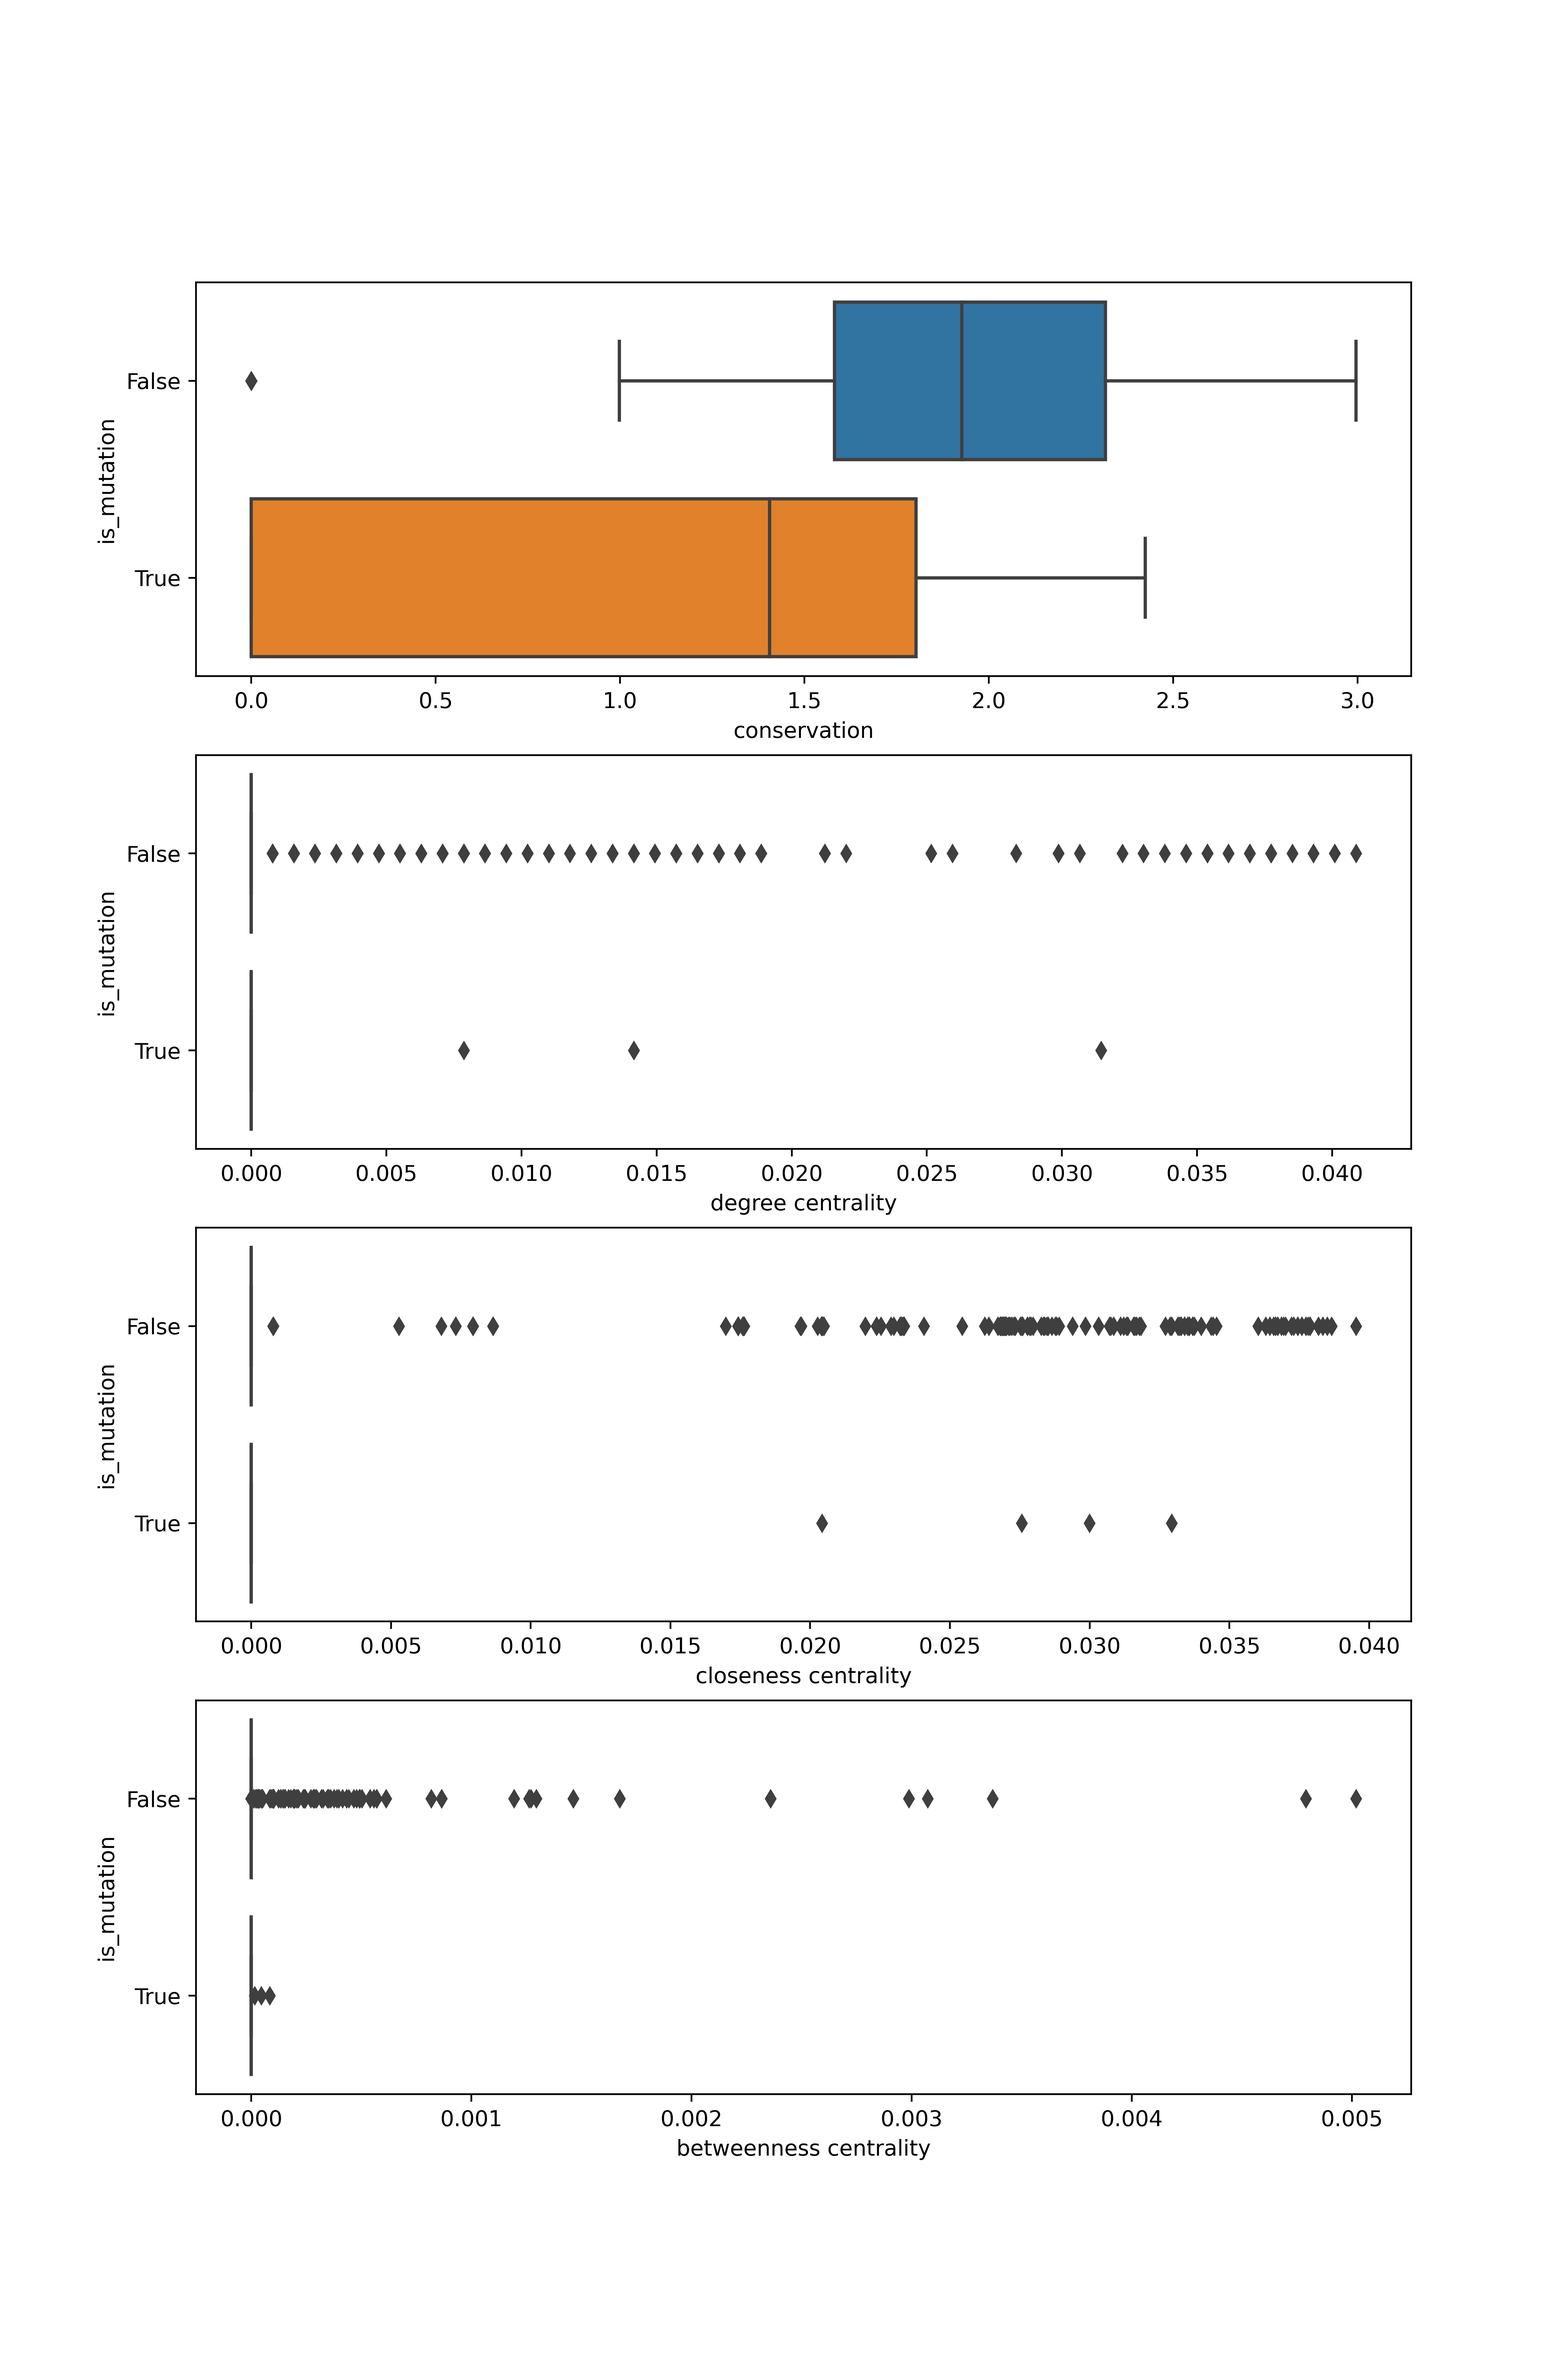
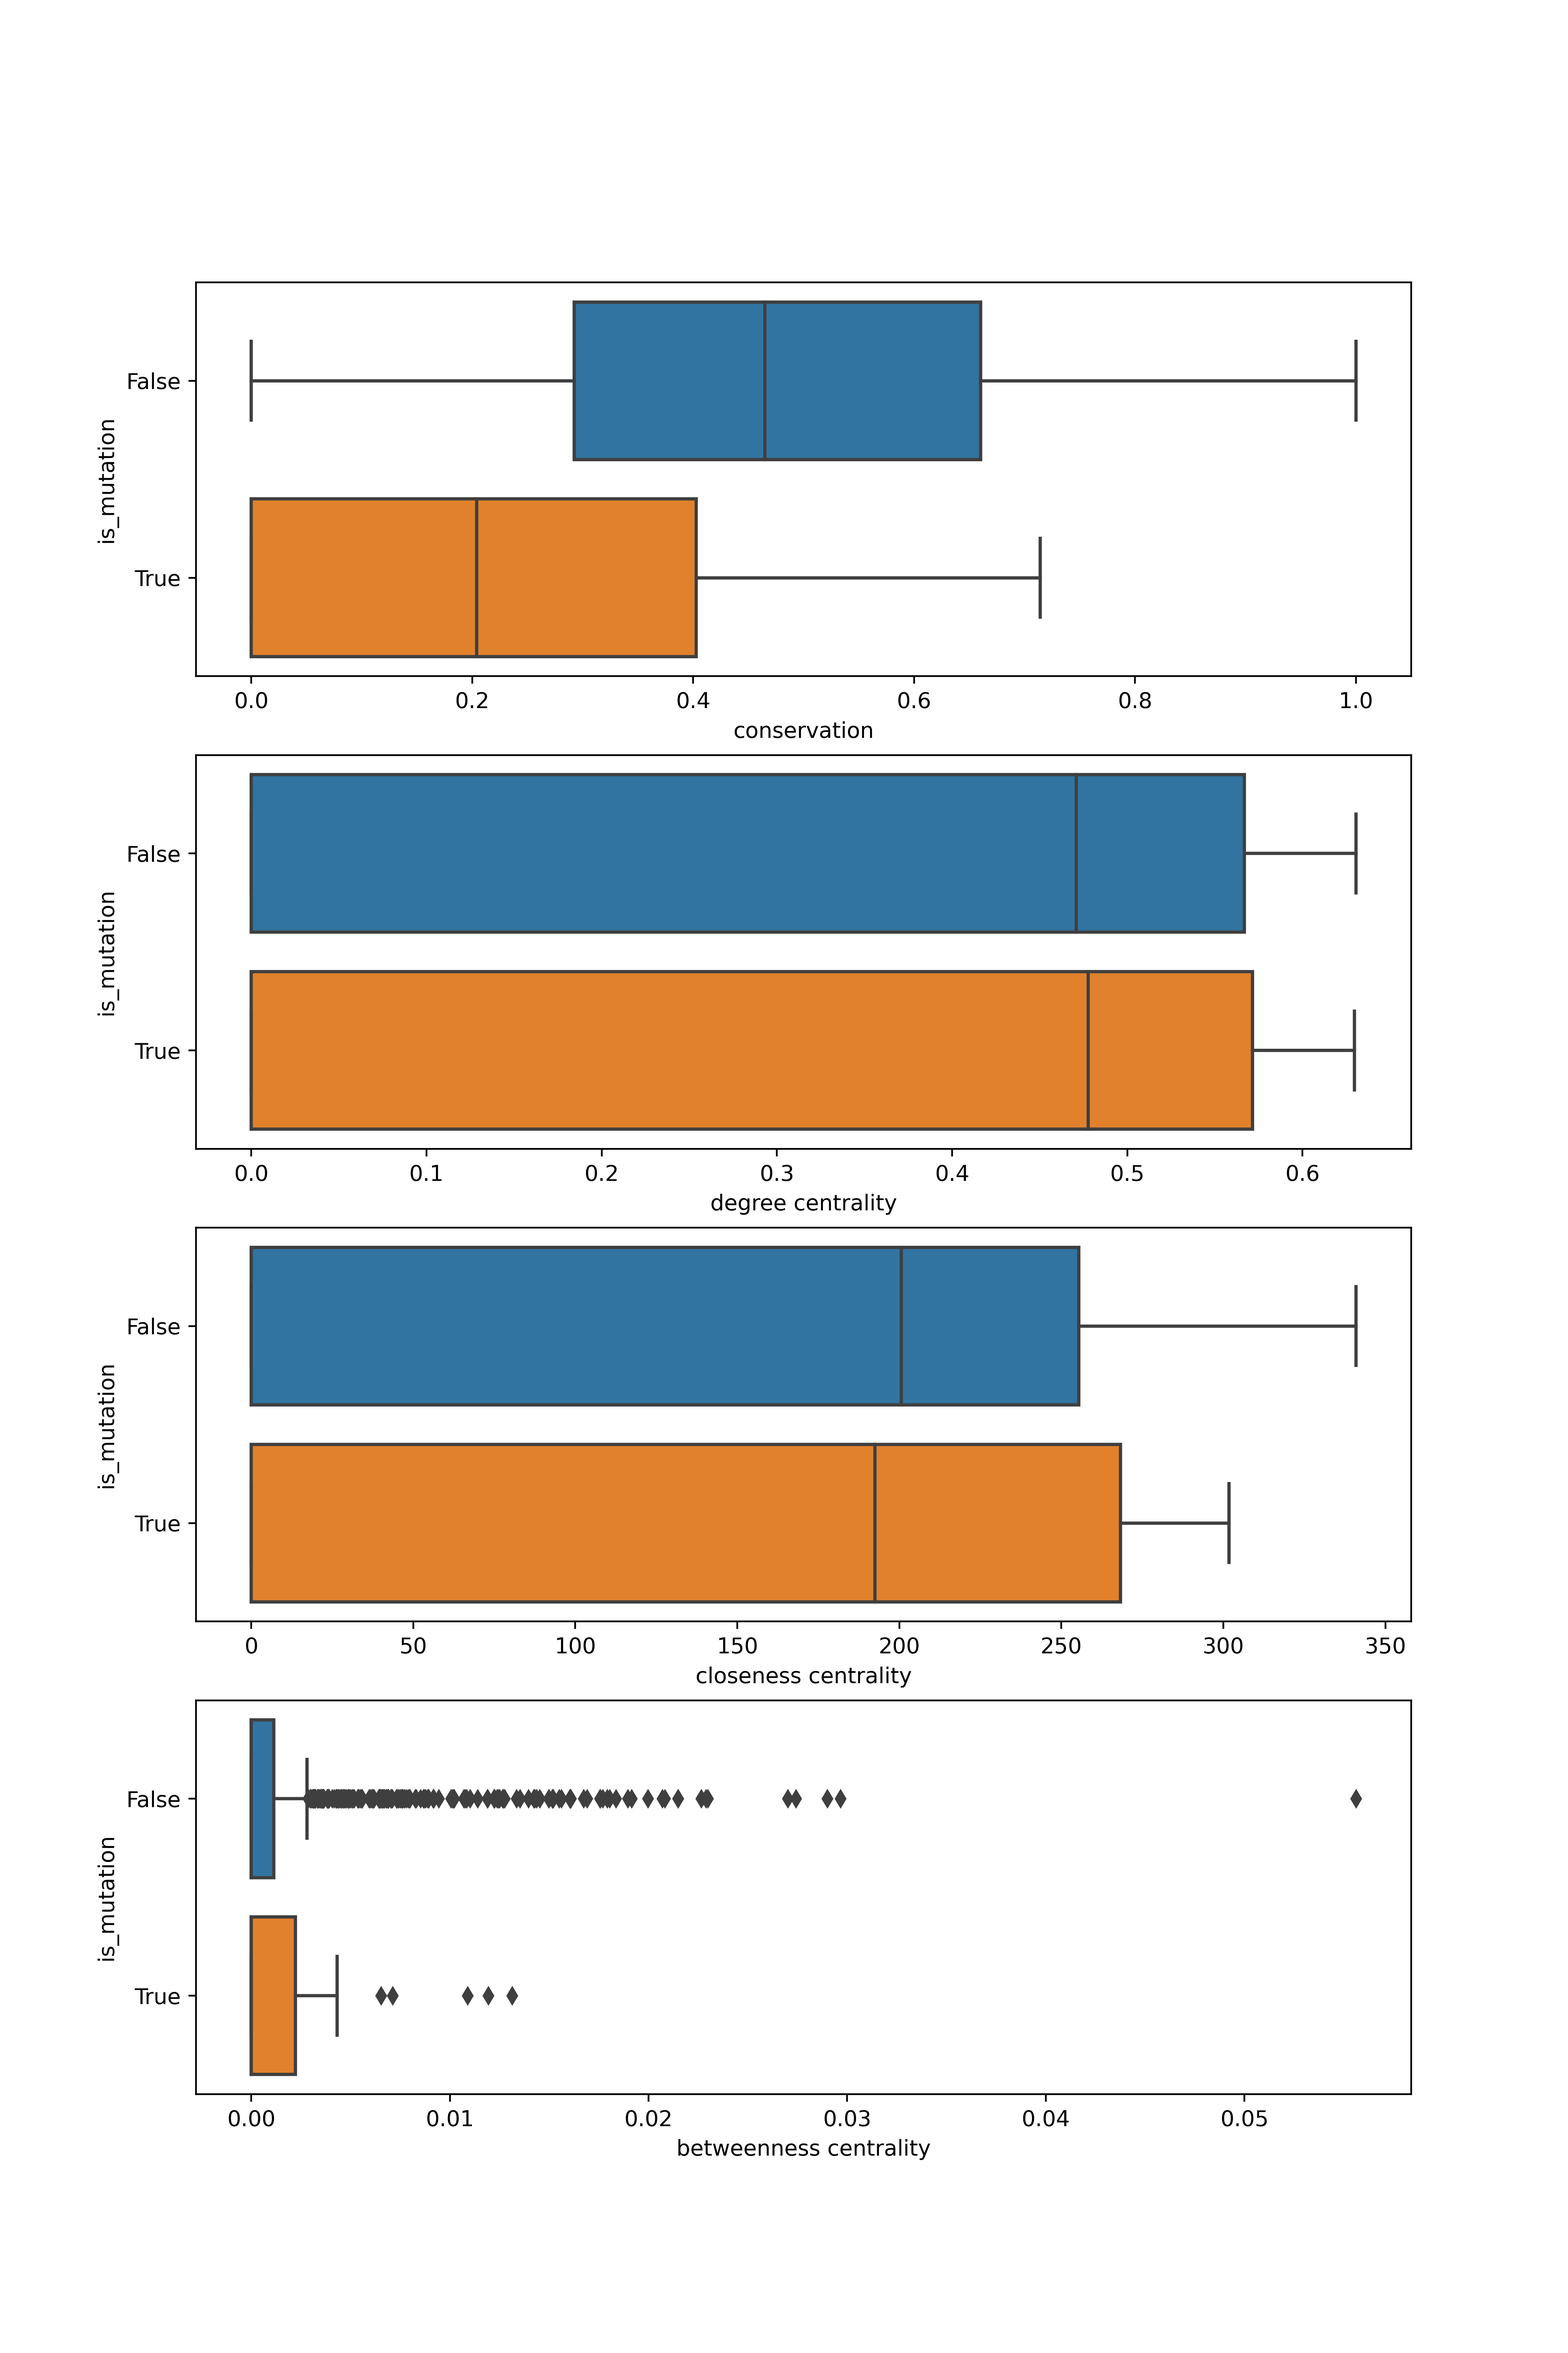
加权图

diff --git a/v2/output_procon_analysis.py b/v2/output_procon_analysis.py
@@ -12,7 +12,9 @@ import os
 from scipy.special import comb
 from itertools import combinations
 from collections import defaultdict
-
+from brokenaxes import brokenaxes
+from matplotlib.gridspec import GridSpec
+from sklearn import preprocessing
 # 日志
 import logging
 import logconfig
@@ -50,19 +52,19 @@ class AnalysisMutationGroup:
 class ProConNetwork:
     def __init__(self,
                  data_dir="../data/procon",
-                 analysis="../data/procon/analysis.json",
                  parse1="../data/procon/type1_parse.csv",
                  parse2="../data/procon/type2_parse.csv",
                  fasta_file="../data/YP_009724390.1.txt",
-                 procon_threshold=300,
                  ):
         self.data_dir = data_dir
-        self.procon_threhold = procon_threshold  # 确定网络阈值
 
         log.info("构造图...")
         # procon 计算的所有的结果
         self.type1 = pd.read_csv(parse1)  # 单点
         self.type2 = pd.read_csv(parse2)  # 成对
+        # 归一化: 单点
+        self.type1["info_norm"] = self._normalize_info(self.type1["information"].values)
+        self.type2["info_norm"] = self._normalize_info(self.type2["info"].values)
 
         # fasta 序列
         self.fasta = next(SeqIO.parse(fasta_file, "fasta")).seq
@@ -74,9 +76,15 @@ class ProConNetwork:
         # 构成图
         self.G = self._get_G(self.links, self.nodes)
 
-        log.info("确定中心性...")
         # 中心性
+        log.info("确定中心性...")
         self.degree_c, self.betweenness_c, self.closeness_c = self._get_centralities()
+
+    @staticmethod
+    def _normalize_info(info: np.ndarray):
+        info = info.reshape(-1, 1)
+        mms = preprocessing.MinMaxScaler().fit(info)
+        return mms.transform(info)
 
     @staticmethod
     def _aa2position(aa: str):
@@ -91,18 +99,14 @@ class ProConNetwork:
         nodes = ["{}{}".format(i + 1, j) for i, j in enumerate(fasta)]
         nodes = pd.DataFrame({"position": nodes})
         nodes = pd.merge(nodes, type1, how="left", left_on="position", right_on="position")
-        nodes = nodes.loc[:, ["position", "information"]]
+        nodes = nodes.loc[:, ["position", "info_norm"]]
         nodes.columns = ["name", "size"]
         nodes = nodes.fillna(0)
-        log.debug("nodes = %s", nodes)
         return nodes
 
     def _get_links(self, type2, ):
-        type2 = type2[type2["info"] > self.procon_threhold]  # TODO: 选择阈值
-        log.debug("type2 = %s", type2)
-        links = type2.loc[:, ["site1", "site2", "info"]]
+        links = type2.loc[:, ["site1", "site2", "info_norm"]]
         links.columns = ["source", "target", "weight"]
-        log.debug("links = %s", links)
         return links
 
     def _get_G(self, links, nodes):
@@ -116,8 +120,13 @@ class ProConNetwork:
         return G
 
     def display(self):
+        log.debug("self.type1 = %s", self.type1)
+        log.debug("self.type2 = %s", self.type2)
         log.info("nodes = %s", self.nodes)
         log.info("links = %s", self.links)
+        log.debug("dc = %s", self.degree_c)
+        log.debug("cc = %s", self.closeness_c)
+        log.debug("bc = %s", self.betweenness_c)
 
     @staticmethod
     def count_distribution(d: dict):
@@ -129,14 +138,38 @@ class ProConNetwork:
 
     def _get_centralities(self):
         # 点度中心性 degree
-        dc = degree_centrality(self.G)
-        # 中介中心性 betweenness
-        bc = betweenness_centrality(self.G)
-        # 接近中心性 closeness
-        cc = closeness_centrality(self.G)
-        # log.debug("dc = %s", dc)
-        # log.debug("cc = %s", cc)
-        # log.debug("bc = %s", bc)
+        outpath = [os.path.join(self.data_dir, "cache", f"{i}_centrality.json") for i in ["degree", "betweenness", "closeness"]]
+        self.centrality_cache_dir = outpath
+        if all([os.path.exists(i) for i in outpath]):
+            log.debug("中心性存在缓存，直接读取")
+            log.info("点度中心性 degree")
+            with open(outpath[0], ) as f:
+                dc = json.load(f)
+            # 中介中心性 betweenness
+            log.info("中介中心性 betweenness")
+            with open(outpath[1], ) as f:
+                bc = json.load(f)
+            # 接近中心性 closeness
+            log.info("接近中心性 closeness")
+            with open(outpath[2], ) as f:
+                cc = json.load(f)
+
+        else:
+            log.debug("中心性无缓存，直接计算")
+            log.info("点度中心性 degree")
+            dc = degree_centrality(self.G)
+            with open(outpath[0], "w") as f:
+                f.write(json.dumps(dc))
+            # 中介中心性 betweenness
+            log.info("中介中心性 betweenness")
+            bc = betweenness_centrality(self.G, weight="weight")
+            with open(outpath[1], "w") as f:
+                f.write(json.dumps(bc))
+            # 接近中心性 closeness
+            log.info("接近中心性 closeness")
+            cc = closeness_centrality(self.G, distance="weight")
+            with open(outpath[2], "w") as f:
+                f.write(json.dumps(cc))
         return dc, bc, cc
 
     def analysis_aa(self, aa: str):
@@ -162,7 +195,20 @@ class ProConNetwork:
         fig: plt.Figure
         axs: List[plt.Axes]
         fig, axs = plt.subplots(2, 1)
-        fig.suptitle("threshold={}".format(self.procon_threhold))
+        # sps1, sps2 = GridSpec(2, 1)
+        # fig = plt.figure()
+        # hspace 双斜线间隔
+        # bax = brokenaxes(ylims=((0, 0.02), (0.8, 0.9)), hspace=0.2, subplot_spec=sps1, fig=fig, height_ratios=(3, 8))
+        # bax_axes_botton:plt.Axes = bax.axs[1]
+        # bax_axes_botton.set_yticklabels()
+        # t = bax_axes_botton.get_yticks()
+        # bax_axes_botton.set_yticks(np.arange(0, 0.01, 10))
+        # bax_axes_botton.set_yticklabels(np.arange(0, 0.01, 10))
+        # log.debug("bax_axes_top.get_ymajorticklabels= %s", bax_axes_botton.get_ymajorticklabels())
+
+        # bax_axes_top.get_ymajorticklabels
+        # bax = brokenaxes(ylims=((0, 0.02), (0.8, 0.9)), hspace=0.2, subplot_spec=sps1, fig=fig, )
+        # axs = [bax, plt.subplot(sps2)]
         axs[0].plot(x[1:], y[1:])
         axs[0].set_ylabel("degree distribution")
         # axs[0].plot(x, y)
@@ -189,12 +235,13 @@ class ProConNetwork:
         ax_1_right.bar(count_degree_aa.keys(), count_degree_aa.values(), color="green")
 
         fig.show()
-        fig.savefig(os.path.join(self.data_dir, f"度分布-{self.procon_threhold}.png"), dpi=300)
+        fig.savefig(os.path.join(self.data_dir, f"度分布.png"), dpi=300)
 
     def _plot_node_box(self, aas):
         nodes_size = {node: self.G.nodes[node]["size"] for node in self.G.nodes}
-        node_data = pd.DataFrame({"conservation": nodes_size, "degree centrality": self.degree_c, "closeness centrality": self.closeness_c,
-                                  "betweenness centrality": self.betweenness_c})
+        node_data = pd.DataFrame(
+            {"conservation": nodes_size, "degree centrality": self.degree_c, "closeness centrality": self.closeness_c,
+             "betweenness centrality": self.betweenness_c})
         # node_data = node_data.reset_index()  # 调整索引
         node_data["is_mutation"] = node_data.index.map(lambda x: x in aas)
 
@@ -218,20 +265,14 @@ class ProConNetwork:
 if __name__ == '__main__':
     start_time = time.time()
     # 保守性网络
-    pcn = ProConNetwork(procon_threshold=300)
+    pcn = ProConNetwork()
     # 需要关注的变异
     groups = AnalysisMutationGroup()
     aas = groups.get_non_duplicated_aas()
     log.debug("aas = %s", aas)
 
     pcn.analysisG(aas)
-    # for aa in aas:
-    #     res = pcn.analysis_aa(aa)
-    #     log.debug("%s %s", aa, res)
-    #
-    # for group in groups.get_aa_groups():
-    #     res = pcn.analysis_group(group)
-    #     log.debug("%s\t%s", group, res)
+
 
     end_time = time.time()
     log.info(f"程序运行时间: {end_time - start_time}")
